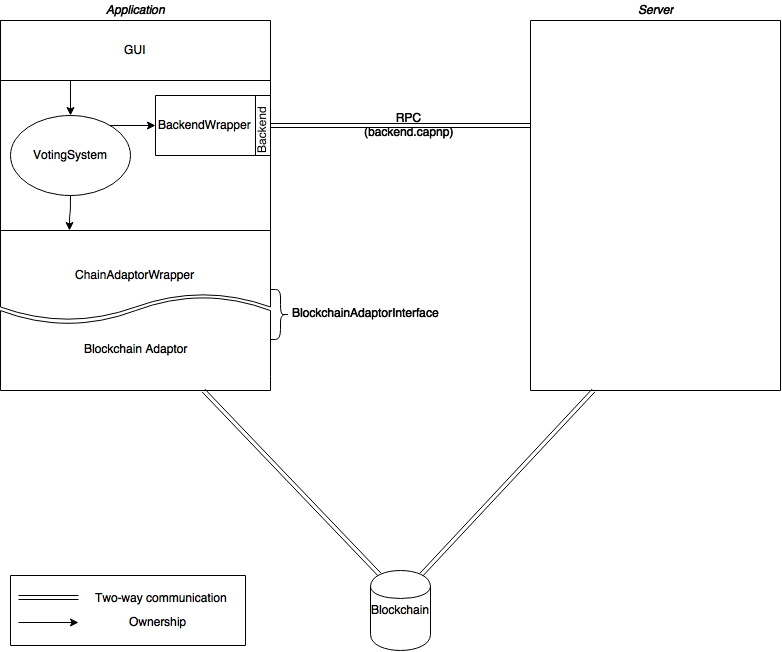
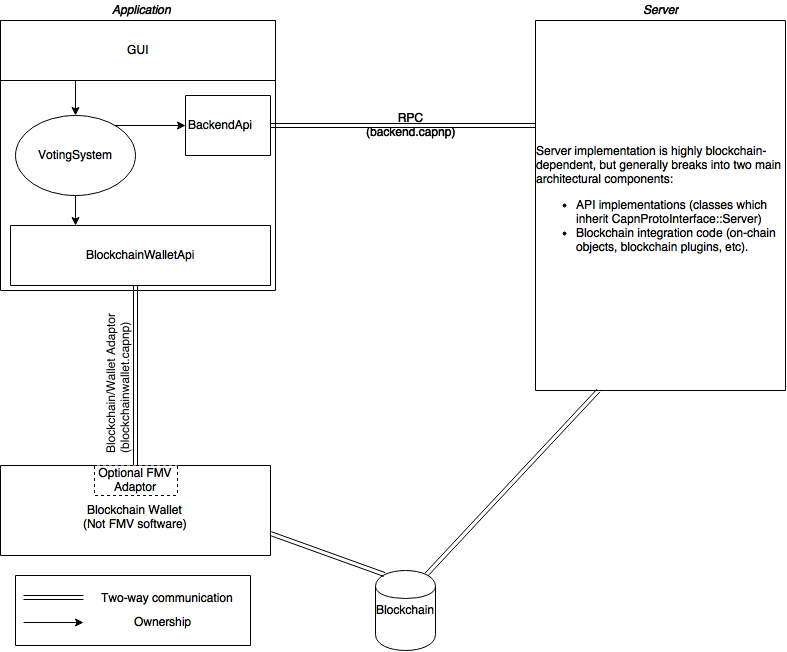
Update Architecture docs

diff --git a/Architecture.md b/Architecture.md
@@ -1,24 +1,46 @@
 # Architecture of the Stake Weighted Voting Application
 
-This document describes the software architecture used for the Stake-Weighed Voting application. Only the application is documented here; external components such as the server and the blockchain adaptor are documented in their respective repositories.
+This document describes the software architecture used for the Stake-Weighed Voting application. Only the application
+is documented here; external components such as the server and the blockchain/wallet adaptor are documented in their
+respective repositories.
 
-The interface to the server is defined [here](shared/capnp/backend.capnp) and `BlockchainAdaptorInterface` is defined [here](shared/BlockchainAdaptorInterface.hpp)
+The interface to the server is defined [here](shared/capnp/backend.capnp) and the interface to the blockchain wallet is
+defined [here](shared/capnp/blockchainwallet.capnp).
 
 ![Architecture Diagram](Architecture.png)
 
-The GUI in the application is written in QML, and it is the logical entry point of the application. `main()`'s purpose is to set up the QML environment, any global initializations, and launch the UI. It is probably not a good place to start when trying to understand how the application functions.
+The GUI in the application is written in QML, and it is the logical entry point of the application. `main()`'s purpose
+is to set up the QML environment, any global initializations, and launch the UI. It is probably not a good place to
+start when trying to understand how the application functions.
 
 All classes belonging solely to the voting application should be in the `swv` namespace.
 
-The central controller for the application is `VotingSystem`, which is instantiated in from the GUI in [main.qml](VotingApp/qml/main.qml). `VotingSystem` is a controller class and generally only one will exist per application.
+The central controller for the application is `VotingSystem`, which is instantiated in from the GUI in
+[main.qml](VotingApp/qml/main.qml). `VotingSystem` is a controller class and generally only one will exist per
+application.
 
-The `VotingSystem` creates and owns two interfaces: `BackendWrapper`, which communicates with the server; and `ChainAdaptorWrapper`, which communicates with the blockchain. These wrappers are actually just layers on top of low level classes. The wrappers provide QML-friendly interfaces to the low level implementations, and these low level classes do the heavy lifting.
+The `VotingSystem` creates and owns two main interfaces: `[BackendApi](VotingApp/Apis/BackendApi.hpp)`, which
+communicates with the server; and `[BlockchainWalletApi](VotingApp/Apis/BlockchainWalletApi.hpp)`, which communicates
+with the blockchain wallet. These classes are just wrappers around CapnProto RPC APIs, and generally exist for the
+duration of the application's execution. Other API wrappers are defined [here](VotingApp/Apis/) and are created and
+destroyed as necessary.
 
-The `BackendWrapper` wraps a `Backend::Client` object, which is the Cap'n Proto generated client for the interface defined in `backend.capnp`. The wrapper implements methods which, unless otherwise commented, expose the interface directly to QML and convert data between Cap'n Proto containers and Qt containers as necessary. The data types which are defined in Cap'n Proto that must be manipulated in QML are wrapped. All such data wrappers should be in the `wrappers/` directory, and have the same name as the type they wrap, except that they exist in the `swv` namespace.
+The `BackendApi` wraps a `Backend::Client` object, which is the Cap'n Proto generated client for the interface defined
+in `[backend.capnp](shared/capnp/backend.capnp)`. This class has methods which expose Backend calls to QML using
+QML-friendly types, and wrap the returned data or APIs in other wrappers. Data is wrapped in
+[DataStructures](VotingApp/DataStructures/README.md) while APIs are wrapped in [Apis](VotingApp/Apis/README.md).
 
-Lifetime of these wrappers must be handled carefully, as sometimes they are created in C++ but transferred to QML (and thus the QML runtime owns and must delete them), but in other cases, the C++ retains ownership. Any time a raw pointer is returned, the function should be documented as to whether the returned object is owned by the caller or callee. The [C++/QML Data Ownership Documentation](http://doc.qt.io/qt-5/qtqml-cppintegration-data.html#data-ownership) explains the circumstances under which ownership is transferred, and **must** be understood before working with any of the wrapper classes.
+The `BlockchainWalletApi` wraps some implementor of `[BlockchainWallet](shared/capnp/blockchainwallet.capnp)` and
+exposes blockchain functionality to callers, similarly to `BackendApi`.
 
-> ###### Implementation Note:
-> When the C++ classes return a `Promise`, the C++ retains ownership of the promise until the promise resolves or breaks. At that point, ownership transfers to QML. Unless otherwise documented, any objects the promise resolves to are owned by QML immediately.
+Lifetime of these wrappers (Apis and DataStructures) must be handled carefully, as sometimes they are created in C++
+but transferred to QML (and thus the QML runtime owns and must delete them), but in other cases, the C++ retains
+ownership. Any time a raw pointer is returned, the function should be documented as to whether the returned object is
+owned by the caller or callee. The [C++/QML Data Ownership
+Documentation](http://doc.qt.io/qt-5/qtqml-cppintegration-data.html#data-ownership) explains the circumstances under
+which ownership is transferred, and **must** be understood before working with any of the wrapper classes.
 
-The `ChainAdaptorWrapper` wraps some implementor of `BlockchainAdaptorInterface` and exposes blockchain functionality to callers. The `ChainAdaptorWrapper` is also responsible for managing decisions, including persisting pending decisions.
+> ###### Implementation Note: When the C++ classes return a `Promise`, the C++ retains ownership of the promise until
+> the promise resolves or breaks. At that point, Promise ownership transfers to QML. This is to avoid QML garbage
+> collecting the promise before it resolves, since the C++ has no good way of knowing this happened and will attempt to
+> use the deleted object.
